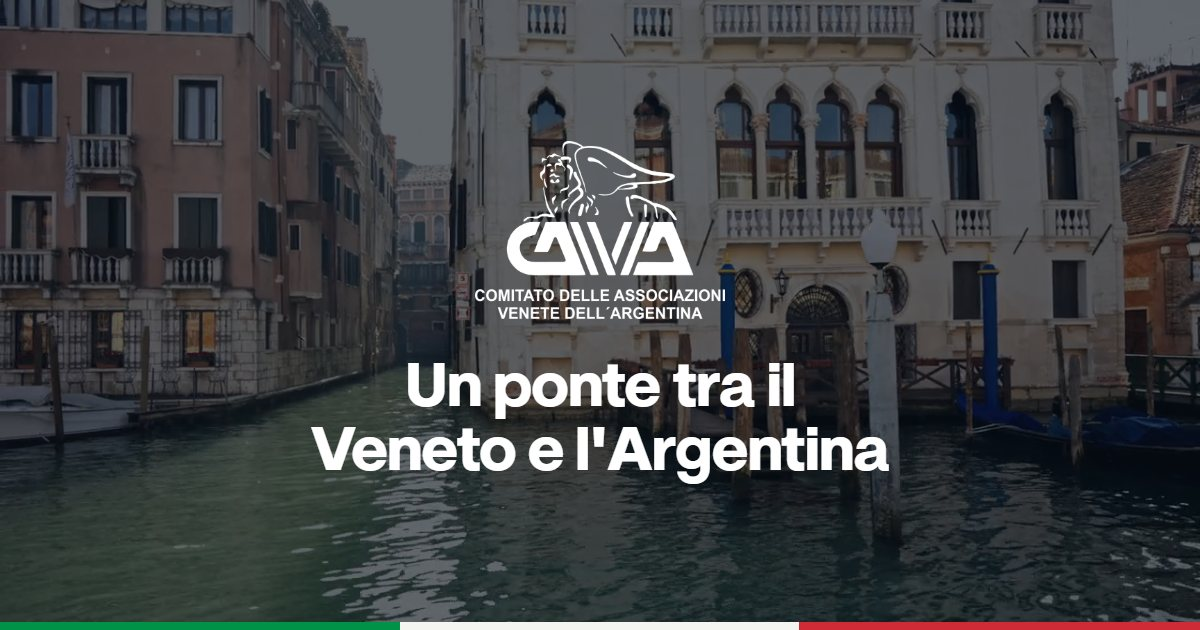
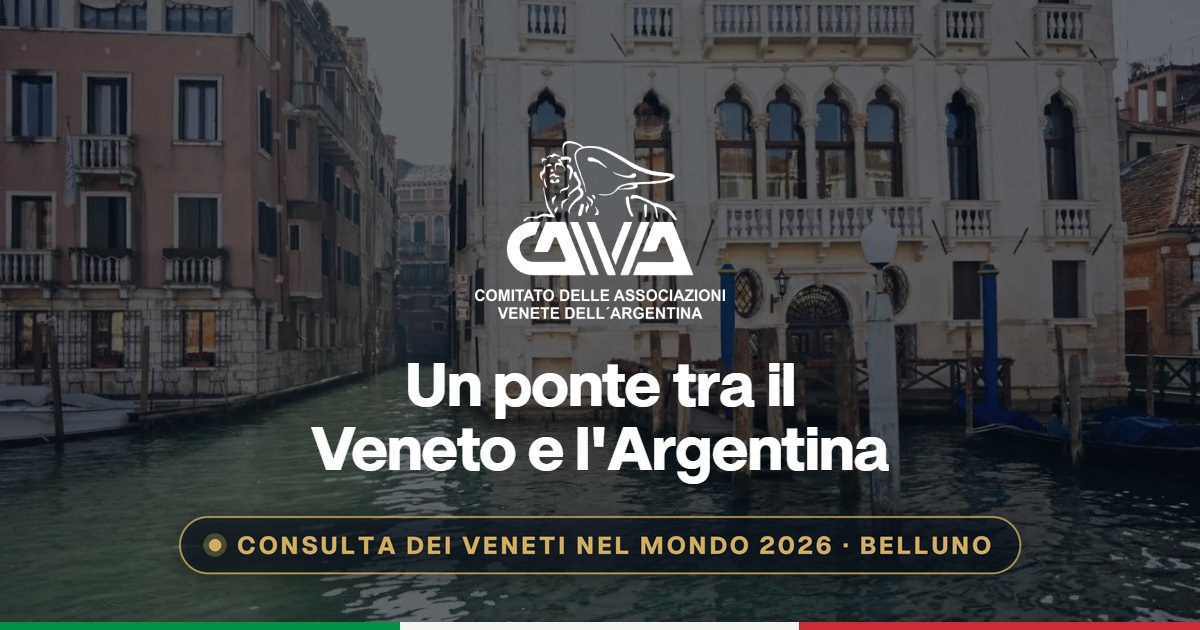
dd

Changed region(s): [[0.1233, 0.8143, 0.8633, 0.9349]]

diff --git a/index.html b/index.html
@@ -3,8 +3,8 @@
 <head>
   <meta charset="utf-8">
   <meta name="viewport" content="width=device-width, initial-scale=1">
-  <title>CAVA · Comitato delle Associazioni Venete dell'Argentina</title>
-  <meta name="description" content="Il CAVA riunisce più di venti associazioni venete in nove province argentine e rappresenta la comunità veneto-argentina presso la Regione Veneto.">
+  <title>CAVA · Consulta dei Veneti nel Mondo 2026</title>
+  <meta name="description" content="Il CAVA alla Consulta dei Veneti nel Mondo 2026: più di venti associazioni venete in nove province argentine, unite dal 1989, che rappresentano la comunità veneto-argentina presso la Regione Veneto.">
   <link rel="canonical" href="https://comitatocava.org/">
   <meta name="theme-color" content="#0b1828">
 
@@ -13,17 +13,17 @@
   <meta property="og:locale" content="it_IT">
   <meta property="og:site_name" content="CAVA · Comitato delle Associazioni Venete dell&#39;Argentina">
   <meta property="og:url" content="https://comitatocava.org/">
-  <meta property="og:title" content="CAVA · Comitato delle Associazioni Venete dell&#39;Argentina">
-  <meta property="og:description" content="Più di venti associazioni venete in nove province argentine, unite dal 1989.">
-  <meta property="og:image" content="https://comitatocava.org/assets/img/og.jpg?v=1">
+  <meta property="og:title" content="Il CAVA alla Consulta dei Veneti nel Mondo 2026">
+  <meta property="og:description" content="Chi siamo: più di venti associazioni venete in nove province argentine, unite dal 1989.">
+  <meta property="og:image" content="https://comitatocava.org/assets/img/og.jpg?v=2">
   <meta property="og:image:type" content="image/jpeg">
   <meta property="og:image:width" content="1200">
   <meta property="og:image:height" content="630">
-  <meta property="og:image:alt" content="Logo del CAVA su un canale di Venezia: Un ponte tra il Veneto e l&#39;Argentina">
+  <meta property="og:image:alt" content="Logo del CAVA su un canale di Venezia: Un ponte tra il Veneto e l&#39;Argentina. Consulta dei Veneti nel Mondo 2026, Belluno">
   <meta name="twitter:card" content="summary_large_image">
-  <meta name="twitter:title" content="CAVA · Comitato delle Associazioni Venete dell&#39;Argentina">
-  <meta name="twitter:description" content="Più di venti associazioni venete in nove province argentine, unite dal 1989.">
-  <meta name="twitter:image" content="https://comitatocava.org/assets/img/og.jpg?v=1">
+  <meta name="twitter:title" content="Il CAVA alla Consulta dei Veneti nel Mondo 2026">
+  <meta name="twitter:description" content="Chi siamo: più di venti associazioni venete in nove province argentine, unite dal 1989.">
+  <meta name="twitter:image" content="https://comitatocava.org/assets/img/og.jpg?v=2">
 
   <!-- Íconos -->
   <link rel="icon" href="favicon.ico" sizes="48x48">
@@ -81,9 +81,9 @@
     </div>
     <div class="hero-content">
       <img class="hero-logo fade-in" style="--d:0s" src="assets/img/logo-cava.png" width="720" height="513" alt="CAVA · Comitato delle Associazioni Venete dell'Argentina" fetchpriority="high">
-      <p class="eyebrow fade-in" style="--d:.1s">Veneti d'Argentina dal&nbsp;1989</p>
+      <p class="event-badge fade-in" style="--d:.1s"><span class="event-badge-dot" aria-hidden="true"></span>Consulta dei Veneti nel Mondo&nbsp;2026 · Belluno</p>
       <h1 class="fade-in" style="--d:.2s">Un ponte tra il Veneto e&nbsp;l'Argentina</h1>
-      <p class="lead fade-in" style="--d:.35s">Più di venti associazioni in nove province argentine, unite nel CAVA. Chi siamo e dove siamo.</p>
+      <p class="lead fade-in" style="--d:.35s">Alla Consulta dei Veneti nel Mondo presentiamo il CAVA: dal&nbsp;1989 riunisce più di venti associazioni venete in nove province argentine. Chi siamo e dove siamo.</p>
     </div>
     <a class="hero-down fade-in" style="--d:.6s" href="#chi-siamo">Chi siamo <span aria-hidden="true">↓</span></a>
   </section>
@@ -280,7 +280,7 @@
       <div class="footer-cta">
         <h2 data-reveal>Costruiamolo <span>insieme.</span></h2>
         <div class="footer-contact" data-reveal style="--i:1">
-          <p>Per conoscere le associazioni o collaborare con il CAVA, scriveteci.</p>
+          <p>Ci trovate alla Consulta dei Veneti nel Mondo 2026. Per conoscere le associazioni o collaborare con il CAVA, scriveteci.</p>
           <a class="footer-mail" href="mailto:federazionecava@gmail.com">
             <span class="footer-mail-text"><small>Scrivici</small>federazionecava@gmail.com</span>
             <span class="footer-mail-arrow" aria-hidden="true">→</span>
@@ -288,7 +288,7 @@
         </div>
       </div>
       <div class="footer-bottom">
-        <span>© 2026 CAVA · federazionecava</span>
+        <span>© 2026 CAVA · Consulta dei Veneti nel Mondo 2026</span>
         <span class="credits">Realizzato da <a href="https://www.linkedin.com/in/wurst" target="_blank" rel="noopener">Bruno Wurst</a></span>
         <a class="to-top" href="#main">Torna su ↑</a>
       </div>

diff --git a/css/style.css b/css/style.css
@@ -209,6 +209,17 @@ p { text-wrap: pretty; }
 .hero .lead { font-size: var(--fs-lead); max-width: 46rem; color: rgba(255, 255, 255, .88); line-height: 1.45; }
 .hero-logo { width: clamp(7.5rem, 5rem + 8vw, 12rem); height: auto; filter: brightness(0) invert(1); opacity: .95; }
 .eyebrow { font-size: clamp(.8rem, .75rem + .3vw, 1.05rem); font-weight: 900; letter-spacing: .12em; text-transform: uppercase; color: var(--oro); }
+/* Etiqueta del evento (Consulta 2026) arriba del título */
+.event-badge {
+  display: inline-flex; align-items: center; gap: .6em;
+  padding: .55em 1.1em; border-radius: 999px;
+  border: 1px solid rgba(207, 174, 98, .55);
+  background: rgba(10, 18, 30, .38);
+  -webkit-backdrop-filter: blur(8px); backdrop-filter: blur(8px);
+  font-size: clamp(.75rem, .7rem + .3vw, .95rem); font-weight: 700; letter-spacing: .1em; text-transform: uppercase;
+  color: var(--oro); text-align: center;
+}
+.event-badge-dot { flex: none; width: .5em; height: .5em; border-radius: 50%; background: var(--oro); box-shadow: 0 0 0 .25em rgba(207, 174, 98, .2); }
 /* Botón "Chi siamo ↓" al pie del hero */
 .hero-down {
   position: absolute; z-index: 2; left: 50%; translate: -50% 0;

diff --git a/README.md b/README.md
@@ -1,6 +1,6 @@
 # comitatocava.org
 
-Web institucional del CAVA (Comitato delle Associazioni Venete dell'Argentina). Sitio estático en HTML, CSS y JS puros: no hace falta instalar ni compilar nada.
+Web de presentación del CAVA (Comitato delle Associazioni Venete dell'Argentina) para la **Consulta dei Veneti nel Mondo 2026**. No es la landing institucional completa: presenta qué es el CAVA en el marco de la Consulta. Las menciones al evento están en el `<head>` (title, description, og/twitter), en la etiqueta `.event-badge` del hero y en el footer. Sitio estático en HTML, CSS y JS puros: no hace falta instalar ni compilar nada.
 
 ## Estructura
 
